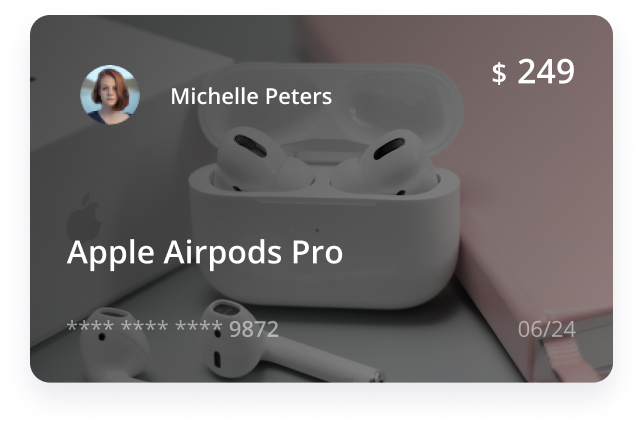
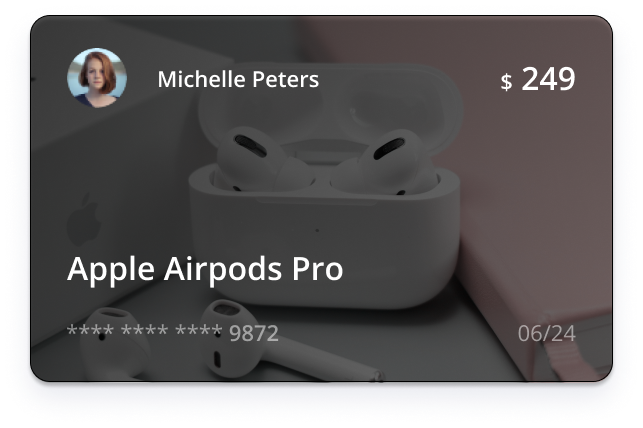
Further clean up stacked giftcard on mobile

diff --git a/index_mobile.html b/index_mobile.html
@@ -158,28 +158,28 @@
                 </ul>
             </div>
 
-            <div class="row" style="padding-top:10vw;padding-left:2vw;padding-right:7vw;padding-bottom:35vw;">
-                <div class="col-md-12">
+            <div class="row" style="padding-left:2vw;padding-right:7vw;padding-bottom:35vw;">
+                <div class="col-md-12" style="margin-top:5vh">
                     <img src="images/giftcard1_m.png" alt="giftcard1" class="img-giftcard_m" style="position:absolute;width:100%;height:auto;">
                 </div>
                 <br \>
-                <div class="col-md-12" style="margin-top:6vh">
+                <div class="col-md-12" style="margin-top:8vh">
                     <img src="images/giftcard2_m.png" alt="giftcard2" class="img-giftcard_m" style="position:absolute;width:100%;height:auto;">
                 </div>
                 <br \>
-                <div class="col-md-12" style="margin-top:6vh">
+                <div class="col-md-12" style="margin-top:8vh">
                     <img src="images/giftcard3_m.png" alt="giftcard3" class="img-giftcard_m" style="position:absolute;width:100%;height:auto;">
                 </div>
                 <br \>
-                <div class="col-md-12" style="margin-top:6vh">
+                <div class="col-md-12" style="margin-top:8vh">
                     <img src="images/giftcard4_m.png" alt="giftcard4" class="img-giftcard_m" style="position:absolute;width:100%;height:auto;">
                 </div>
                 <br \>
-                <div class="col-md-12" style="margin-top:6vh">
+                <div class="col-md-12" style="margin-top:8vh">
                     <img src="images/giftcard5_m.png" alt="giftcard5" class="img-giftcard_m" style="position:absolute;width:100%;height:auto;">
                 </div>
                 <br \>
-                <div class="col-md-12" style="margin-top:6vh">
+                <div class="col-md-12" style="margin-top:8vh">
                     <img src="images/giftcard6_m.png" alt="giftcard6" class="img-giftcard_m" style="position:absolute;width:100%;height:auto;">
                 </div>
                 <br \>
